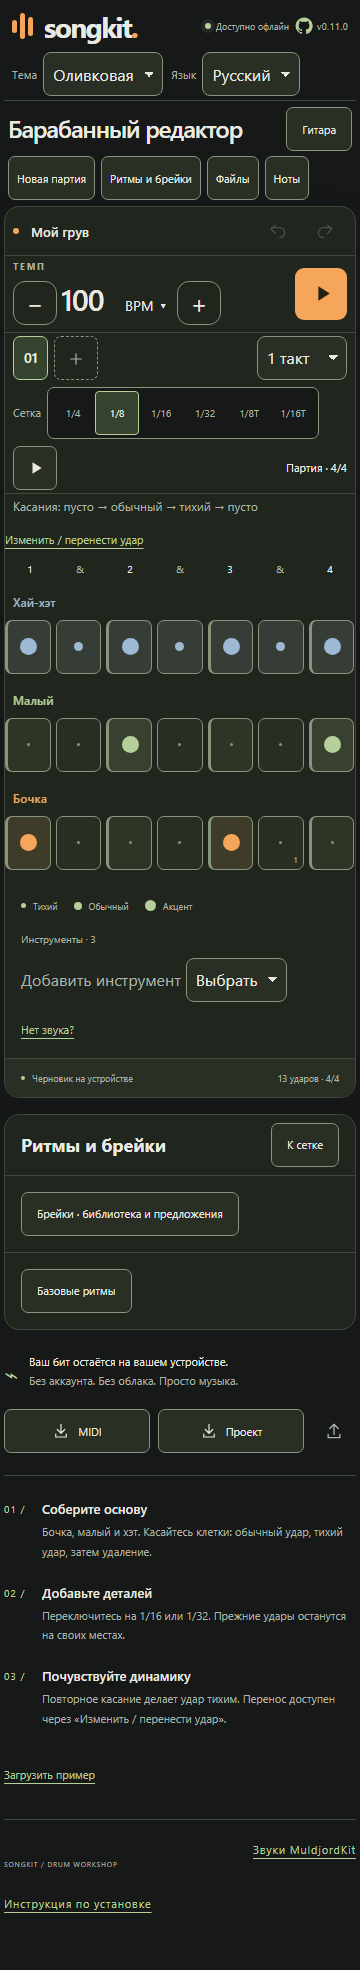
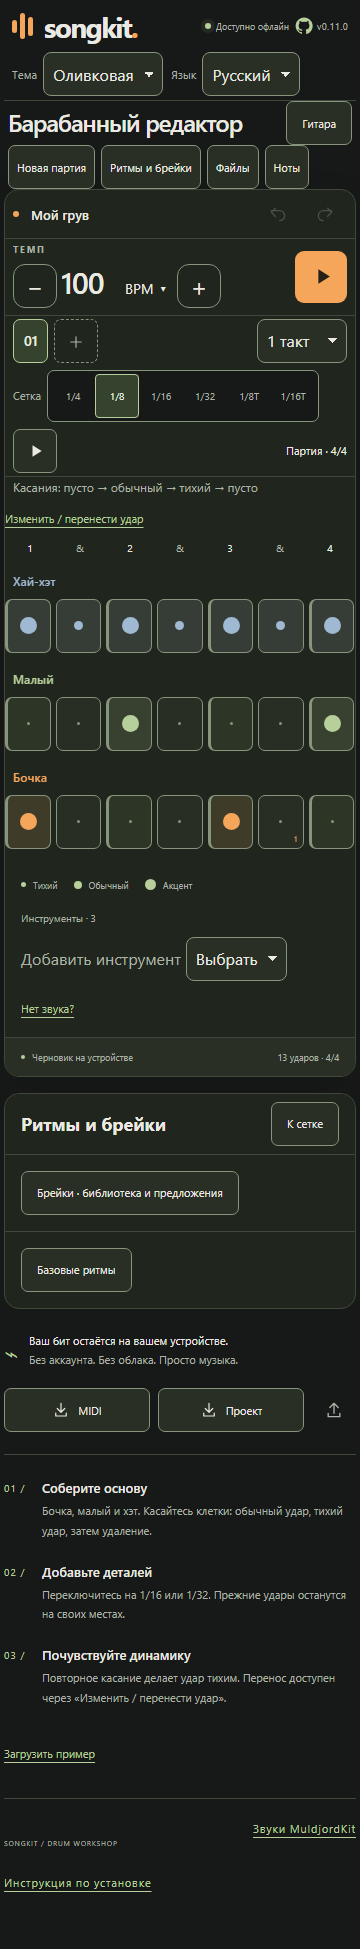
Preserve the full first grid row on compact screens

diff --git a/src/app/styles/global.css b/src/app/styles/global.css
@@ -2014,3 +2014,12 @@ select:hover {
   display: inline-flex;
   align-items: center;
 }
+@media (max-width: 760px) {
+  .editor-heading {
+    padding-block: 0;
+    gap: 0;
+  }
+  .grid-entry-hint {
+    padding-block: 2px;
+  }
+}
